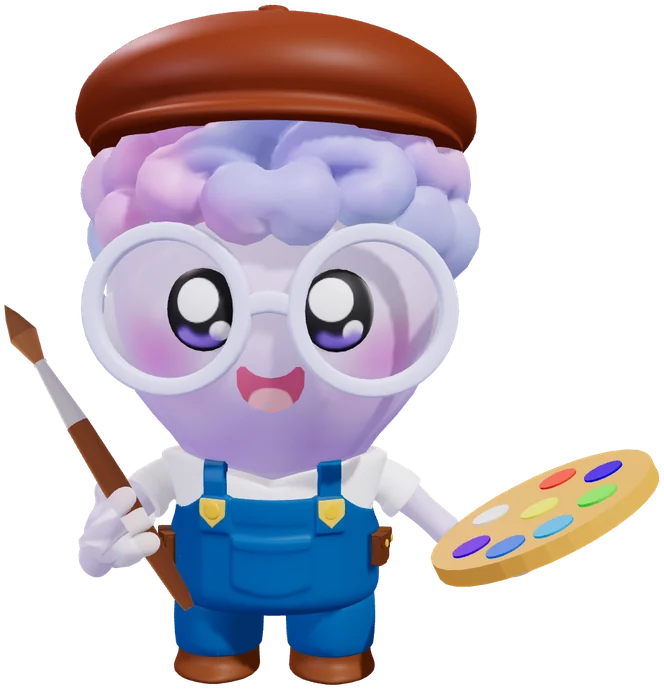
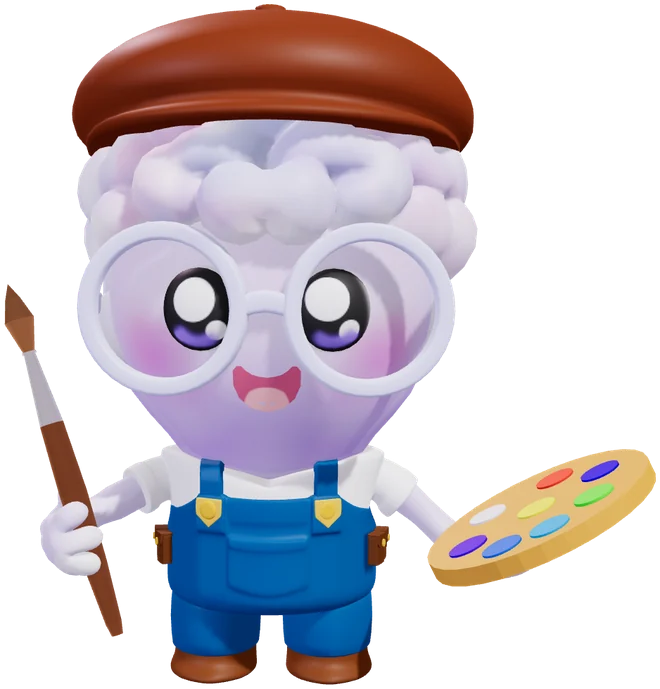
Smooth the Creative elbows and give Fashion a real grip on its bag
- Creative: both hands now turn at the wrist (hold.<side>.wristRoll)
  instead of rolling the whole forearm, which twisted the elbows thin; the
  brush elbow sits out beside the body instead of bending sharply against
  the overalls, elbows bend round (elbowBlend) and the glassy arms are drawn
  solid (opaqueArms).
- Fashion: the fist closes round the top of the tote's handle and the bag
  keeps hanging straight (new `upright` grip with a `handle` point); the free
  arm hangs relaxed instead of being bent to the hip.
- mascotArmPose: grips are seated and fingers curled before the wrist roll,
  so a gripping hand can turn at the wrist with its prop. The other posed
  roles rebuild byte-identical meshes (checked against the previous code).
- Outfit thumbnails for both roles and the Creative hero cutout re-rendered.

diff --git a/frontend/src/components/mascot/mascotArmPose.js b/frontend/src/components/mascot/mascotArmPose.js
@@ -217,6 +217,10 @@ const createArmSkeleton = (model, frame) => {
   return { skeleton: new THREE.Skeleton(bones), joints };
 };
 
+// The forearm roll of one side's hold: its own `roll`, else thumb-up for a
+// gripping hand that does not turn at the wrist instead.
+const getForearmRoll = (pose) => pose?.roll ?? (pose?.grip && pose.wristRoll === undefined ? -90 : 0);
+
 // Rebuilds a character's visible meshes as skinned meshes on a five-bone arm
 // skeleton, then applies `hold`:
 //   { left: { target: [x, y, z], pole: [out, up, forward], roll,
@@ -240,7 +244,11 @@ const createArmSkeleton = (model, frame) => {
 // right. `grip` meshes are moved into that hand's fist by their handle
 // (`at` of the way up their long axis, turned `spin` degrees about it, and
 // `shift` metres across a flat prop to hold it by its edge) and the fingers
-// curl around them; `props` meshes simply follow the forearm.
+// curl around them; `props` meshes simply follow the forearm. An `upright`
+// grip (`grip: { meshes, upright: true, handle: [x, y, z] }`) keeps the prop
+// as modelled — a handbag still hangs straight — and puts its `handle` point
+// (character space) in the fist. A gripping hand turns thumb-up by rolling
+// the forearm -90° unless the side gives its own `roll` or `wristRoll`.
 // Moves the triangles that follow an arm (every corner weighted mostly to the
 // arm bones) of a transparent material into a second group drawn opaque.
 // Returns the material (array) for the mesh.
@@ -334,17 +342,81 @@ export const poseCharacterArms = (model, hold, baseFrame = ARM_FRAME) => {
     });
   });
 
+  // Hats sit higher so the brain shows under the brim, as in the approved
+  // renders: `headwear: { materials: [...], fromY, lift }` raises every vertex
+  // of those materials above `fromY`.
+  const { headwear } = hold;
+  if (headwear) {
+    baked.forEach((item) => {
+      const names = (Array.isArray(item.mesh.material) ? item.mesh.material : [item.mesh.material]).map((m) => m?.name);
+      if (!names.some((name) => headwear.materials.includes(name))) return;
+      item.points.forEach((point) => { if (point.y >= headwear.fromY) point.y += headwear.lift; });
+    });
+  }
+
+  // Seat gripped props in their fists: handle axis along +z (it turns upright
+  // with the thumb-up roll) and handle point on the grip line. An `upright`
+  // grip undoes the posed hand's rotation instead, so the prop keeps its
+  // modelled orientation, with its `handle` point in the fist.
+  ['left', 'right'].forEach((side) => {
+    const pose = hold[side];
+    const grip = pose?.grip;
+    if (!grip) return;
+    const parts = baked.filter((item) => item.grip === side);
+    const points = parts.flatMap((item) => item.points);
+    if (!points.length) return;
+    const sign = side === 'right' ? -1 : 1;
+    const seat = new THREE.Vector3(sign * frame.gripX, frame.curlCenterY, frame.axisZ);
+    let handlePoint;
+    let turn;
+    if (grip.upright) {
+      const { upper, fore } = solveArmHold(side, { ...pose, roll: getForearmRoll(pose) }, frame);
+      const wrist = new THREE.Quaternion().setFromAxisAngle(
+        new THREE.Vector3(1, 0, 0),
+        THREE.MathUtils.degToRad(pose.wristRoll || 0)
+      );
+      turn = upper.multiply(fore).multiply(wrist).invert();
+      handlePoint = new THREE.Vector3().fromArray(grip.handle);
+    } else {
+      const handle = measureHandle(points, grip.at ?? 0.3, grip.shift || 0);
+      handlePoint = handle.point;
+      turn = new THREE.Quaternion().setFromUnitVectors(handle.axis, new THREE.Vector3(0, 0, 1));
+      turn.premultiply(new THREE.Quaternion().setFromAxisAngle(new THREE.Vector3(0, 0, 1), THREE.MathUtils.degToRad(grip.spin || 0)));
+    }
+    parts.forEach((item) => {
+      item.points.forEach((point) => point.sub(handlePoint).applyQuaternion(turn).add(seat));
+      item.normals.forEach((normal) => normal.applyQuaternion(turn));
+      item.rigid = side;
+    });
+  });
+
+  // Arm weights come from the rest pose. A gripping hand then curls its
+  // fingers around the handle line, still in the rest pose, so a wrist roll
+  // afterwards turns fist and prop together.
+  const gripping = { left: Boolean(hold.left?.grip), right: Boolean(hold.right?.grip) };
+  baked.forEach((item) => {
+    if (item.rigid || item.fixed) return;
+    item.weights = item.points.map((point, index) => {
+      const side = point.x < 0 ? 'right' : 'left';
+      const { upper, fore } = getArmWeights(point, frame);
+      if (gripping[side] && fore > 0.99 && Math.abs(point.x) > frame.handMinX) {
+        curlFinger(point, item.normals[index], side === 'right' ? -1 : 1, frame);
+      }
+      return { side, upper, fore };
+    });
+  });
+
   // Turn a hand palm-up (or sideways) at the wrist instead of rolling the
   // whole forearm: a forearm roll twists the elbow like a sweet wrapper and
   // flips a bell sleeve over. The rest arm axis runs along x, so the hand
-  // rolls about that line; props held in it turn with it.
+  // rolls about that line; props held in it (gripped or not) turn with it.
   ['left', 'right'].forEach((side) => {
     const degrees = hold[side]?.wristRoll;
     if (!degrees) return;
     const sign = side === 'right' ? -1 : 1;
     const angle = THREE.MathUtils.degToRad(degrees);
     baked.forEach((item) => {
-      if (item.fixed || item.grip) return;
+      if (item.fixed) return;
       item.points.forEach((point, index) => {
         if (item.rigid ? item.rigid !== side : (point.x * sign <= 0 || !isArmPoint(point, frame))) return;
         const t = item.rigid ? 1 : THREE.MathUtils.smoothstep(point.x * sign, frame.wristTwist[0], frame.wristTwist[1]);
@@ -365,43 +437,10 @@ export const poseCharacterArms = (model, hold, baseFrame = ARM_FRAME) => {
     });
   });
 
-  // Hats sit higher so the brain shows under the brim, as in the approved
-  // renders: `headwear: { materials: [...], fromY, lift }` raises every vertex
-  // of those materials above `fromY`.
-  const { headwear } = hold;
-  if (headwear) {
-    baked.forEach((item) => {
-      const names = (Array.isArray(item.mesh.material) ? item.mesh.material : [item.mesh.material]).map((m) => m?.name);
-      if (!names.some((name) => headwear.materials.includes(name))) return;
-      item.points.forEach((point) => { if (point.y >= headwear.fromY) point.y += headwear.lift; });
-    });
-  }
-
-  // Seat gripped props in their fists: handle axis along +z (it turns upright
-  // with the thumb-up roll) and handle point on the grip line.
-  ['left', 'right'].forEach((side) => {
-    const grip = hold[side]?.grip;
-    if (!grip) return;
-    const parts = baked.filter((item) => item.grip === side);
-    const points = parts.flatMap((item) => item.points);
-    if (!points.length) return;
-    const handle = measureHandle(points, grip.at ?? 0.3, grip.shift || 0);
-    const sign = side === 'right' ? -1 : 1;
-    const turn = new THREE.Quaternion().setFromUnitVectors(handle.axis, new THREE.Vector3(0, 0, 1));
-    turn.premultiply(new THREE.Quaternion().setFromAxisAngle(new THREE.Vector3(0, 0, 1), THREE.MathUtils.degToRad(grip.spin || 0)));
-    const seat = new THREE.Vector3(sign * frame.gripX, frame.curlCenterY, frame.axisZ);
-    parts.forEach((item) => {
-      item.points.forEach((point) => point.sub(handle.point).applyQuaternion(turn).add(seat));
-      item.normals.forEach((normal) => normal.applyQuaternion(turn));
-      item.rigid = side;
-    });
-  });
-
   const { skeleton, joints } = createArmSkeleton(model, frame);
-  const gripping = { left: Boolean(hold.left?.grip), right: Boolean(hold.right?.grip) };
   const skinned = [];
 
-  baked.forEach(({ mesh, points, normals, rigid, fixed }) => {
+  baked.forEach(({ mesh, points, normals, rigid, fixed, weights }) => {
     const source = mesh.geometry;
     const geometry = source.clone();
     if (geometry.getAttribute('skinIndex')) geometry.deleteAttribute('skinIndex');
@@ -422,11 +461,7 @@ export const poseCharacterArms = (model, hold, baseFrame = ARM_FRAME) => {
         skinIndex[offset] = 0;
         skinWeight[offset] = 1;
       } else {
-        const side = point.x < 0 ? 'right' : 'left';
-        const { upper, fore } = getArmWeights(point, frame);
-        if (gripping[side] && fore > 0.99 && Math.abs(point.x) > frame.handMinX) {
-          curlFinger(point, normals[index], side === 'right' ? -1 : 1, frame);
-        }
+        const { side, upper, fore } = weights[index];
         skinIndex[offset] = 0;
         skinWeight[offset] = 1 - upper - fore;
         skinIndex[offset + 1] = joints[side].upperIndex;
@@ -463,8 +498,7 @@ export const poseCharacterArms = (model, hold, baseFrame = ARM_FRAME) => {
   ['left', 'right'].forEach((side) => {
     const pose = hold[side];
     if (!pose?.target) return;
-    const roll = pose.roll ?? (pose.grip ? -90 : 0);
-    const { upper, fore } = solveArmHold(side, { ...pose, roll }, frame);
+    const { upper, fore } = solveArmHold(side, { ...pose, roll: getForearmRoll(pose) }, frame);
     joints[side].shoulder.quaternion.copy(upper);
     joints[side].elbow.quaternion.copy(fore);
   });

diff --git a/frontend/src/components/mascot/mascotCatalog.js b/frontend/src/components/mascot/mascotCatalog.js
@@ -389,17 +389,27 @@ export const POSED_VARIANTS = {
     },
   },
   // Fashion: body_AO_TT2.glb (lavender top, navy overalls) carrying the purple
-  // tote from the approved render (tmp/build-fashion-bag.mjs). The palm rests
-  // on top of the handle; the bag hangs still at the hip.
+  // tote from the approved render (tmp/build-fashion-bag.mjs). The fist closes
+  // round the top of the handle and the bag hangs straight in front of the hip
+  // (an `upright` grip); the free arm hangs relaxed. Before, the palm only lay
+  // flat on the handle and the free hand was bent to the hip with a sharp
+  // elbow (client, 2026-09-27).
   activewear: {
     url: '/mascot/poses/fashion.glb',
     label: 'Handbag',
     // Split out of the shared skin mesh by tmp/split-posed-brains.mjs.
     brainMaterials: ['fashion_brain'],
     hold: {
-      left: { target: [0.37, 0.27, 0.09], pole: [1, 0, -1] },
-      right: { target: [-0.34, 0.13, 0.08], pole: [1, 0.2, -1] },
-      fixed: ['fashion_tote'],
+      left: {
+        target: [0.34, 0.28, 0.28],
+        pole: [1, -1, -0.5],
+        // Turns the fist so its curl runs along the handle.
+        wristRoll: 25,
+        // `handle` is the top of the handle (TOTE.grip in build-fashion-bag).
+        grip: { meshes: ['fashion_tote'], upright: true, handle: [0.37, 0.25, 0.09] },
+      },
+      right: { target: [-0.46, 0.1, 0.14], pole: [1, -1, -0.6], wristRoll: -40 },
+      frame: { elbowBlend: [0.33, 0.48] },
     },
   },
   // Creative: BODY_AO_HoaSi2.glb — brown beret sitting on the brain, white
@@ -407,18 +417,26 @@ export const POSED_VARIANTS = {
   // the other, open palm (laid flat by tmp/build-artist-palette.mjs; the hand
   // turns palm-up so no finger cuts through it, tipped 40° past flat so the
   // paint faces the viewer).
+  // Both hands turn at the wrist: rolling the whole forearm twisted the
+  // elbows thin, and the brush elbow bent sharply at the hip against the
+  // overalls (client, 2026-09-27). The brush elbow now sits out beside the
+  // body, elbows bend round, and the glassy arms are drawn solid.
   artist: {
     url: '/mascot/poses/artist.glb',
     label: 'Paintbrush & palette',
     brainMaterials: ['Material.008.1001'],
     hold: {
       right: {
-        target: [-0.26, 0.32, 0.25],
-        pole: [1, -1, -0.5],
+        target: [-0.33, 0.31, 0.29],
+        pole: [1, -0.6, -0.6],
+        wristRoll: -90,
         grip: { meshes: ['Cylinder', 'Cylinder001', 'Cylinder002'], at: 0.3 },
       },
-      left: { target: [0.46, 0.27, 0.14], pole: [0.3, -1, -1], roll: 220 },
+      // -140° is the palm-up turn the forearm used to make as 220°.
+      left: { target: [0.46, 0.27, 0.14], pole: [0.3, -1, -1], wristRoll: -140 },
       props: { left: ['Cylinder003'] },
+      frame: { elbowBlend: [0.33, 0.48] },
+      opaqueArms: true,
     },
   },
   // Cozy: body_AoKhoacTrumDau2.glb — pink hooded jacket with the brain

diff --git a/frontend/src/components/mascot/mascotArmPose.test.js b/frontend/src/components/mascot/mascotArmPose.test.js
@@ -132,3 +132,37 @@ test('wristRoll turns only the hand, and shift moves a fixed prop before posing'
   book.geometry.computeBoundingBox();
   expect(book.geometry.boundingBox.getCenter(new THREE.Vector3()).y).toBeCloseTo(0.05, 5);
 });
+
+test('an upright grip keeps a hanging prop as modelled, with its handle in the fist', () => {
+  const model = new THREE.Group();
+  const arm = new THREE.Mesh(new THREE.BoxGeometry(1.36, 0.05, 0.05), new THREE.MeshStandardMaterial());
+  arm.position.y = ARM_FRAME.axisY;
+  arm.name = 'arms';
+  // A bag hanging below the top of its handle at the left hip.
+  const handle = [0.37, 0.25, 0.09];
+  const bag = new THREE.Mesh(new THREE.BoxGeometry(0.15, 0.14, 0.06), new THREE.MeshStandardMaterial());
+  bag.position.set(0.37, 0.105, 0.09);
+  bag.name = 'bag';
+  model.add(arm, bag);
+  model.updateMatrixWorld(true);
+  const corner = (mesh, index) => mesh.getVertexPosition(index, new THREE.Vector3()).applyMatrix4(mesh.matrixWorld);
+  // Two edges of one face (vertices 0-1 run along z, 0-2 along y).
+  const edges = (mesh) => [corner(mesh, 1).sub(corner(mesh, 0)), corner(mesh, 2).sub(corner(mesh, 0))];
+  const restEdges = edges(bag);
+  const fromHandle = corner(bag, 0).sub(new THREE.Vector3(...handle));
+
+  const target = [0.34, 0.28, 0.28];
+  poseCharacterArms(model, {
+    left: { target, pole: [1, -1, -0.5], wristRoll: 25, grip: { meshes: ['bag'], upright: true, handle } },
+  });
+  model.updateMatrixWorld(true);
+  const posed = model.getObjectByName('bag');
+  expect(posed.isSkinnedMesh).toBe(true);
+  // Not turned at all: both edges are unchanged.
+  edges(posed).forEach((edge, index) => {
+    edge.toArray().forEach((value, axis) => expect(value).toBeCloseTo(restEdges[index].getComponent(axis), 5));
+  });
+  // The top of the handle moved from the hip into the fist by the palm target.
+  const handleNow = corner(posed, 0).sub(fromHandle);
+  expect(handleNow.distanceTo(new THREE.Vector3(...target))).toBeLessThan(0.04);
+});

diff --git a/frontend/src/components/home/HeroSection.js b/frontend/src/components/home/HeroSection.js
@@ -11,7 +11,7 @@ const HOME_CHARACTERS = [
   { id: 'classic', x: 51.49, y: 52.56, h: 22, depth: -2.2 },
   { id: 'graduation', x: 84.79, y: 58.18, h: 23.31, depth: -3.2 },
   { id: 'long-vest', x: 41.39, y: 70.12, h: 23.83, depth: -0.4 },
-  { id: 'artist', x: 76.9, y: 67.23, h: 26.08, depth: 0.4 },
+  { id: 'artist', x: 76.79, y: 67.23, h: 26.05, depth: 0.4 },
   // The Original waves both hands above the desk, so its cutout ends at the
   // bulb tip rather than a lowered hand.
   { id: 'original', x: 65.93, y: 77.8, h: 32.8, depth: 1.4 },

diff --git a/frontend/src/pages/AboutUsPage.js b/frontend/src/pages/AboutUsPage.js
@@ -11,7 +11,7 @@ import './AboutUsPage.css';
 // the live 3D Acey, so it is not in this list. Front and back rows alternate
 // and everyone stays inside 9–91% of the frame, so no one is cut off.
 const HERO_CHARACTERS = [
-  { id: 'artist', x: 16.05, y: 80.57, h: 26.9, depth: 3.4 },
+  { id: 'artist', x: 15.93, y: 80.57, h: 26.87, depth: 3.4 },
   { id: 'classic', x: 22.31, y: 52.8, h: 18.77, depth: -2.12 },
   { id: 'hoodie', x: 33.18, y: 75.19, h: 26.26, depth: 3 },
   { id: 'vest', x: 68.32, y: 82.76, h: 25.83, depth: 2.85 },
